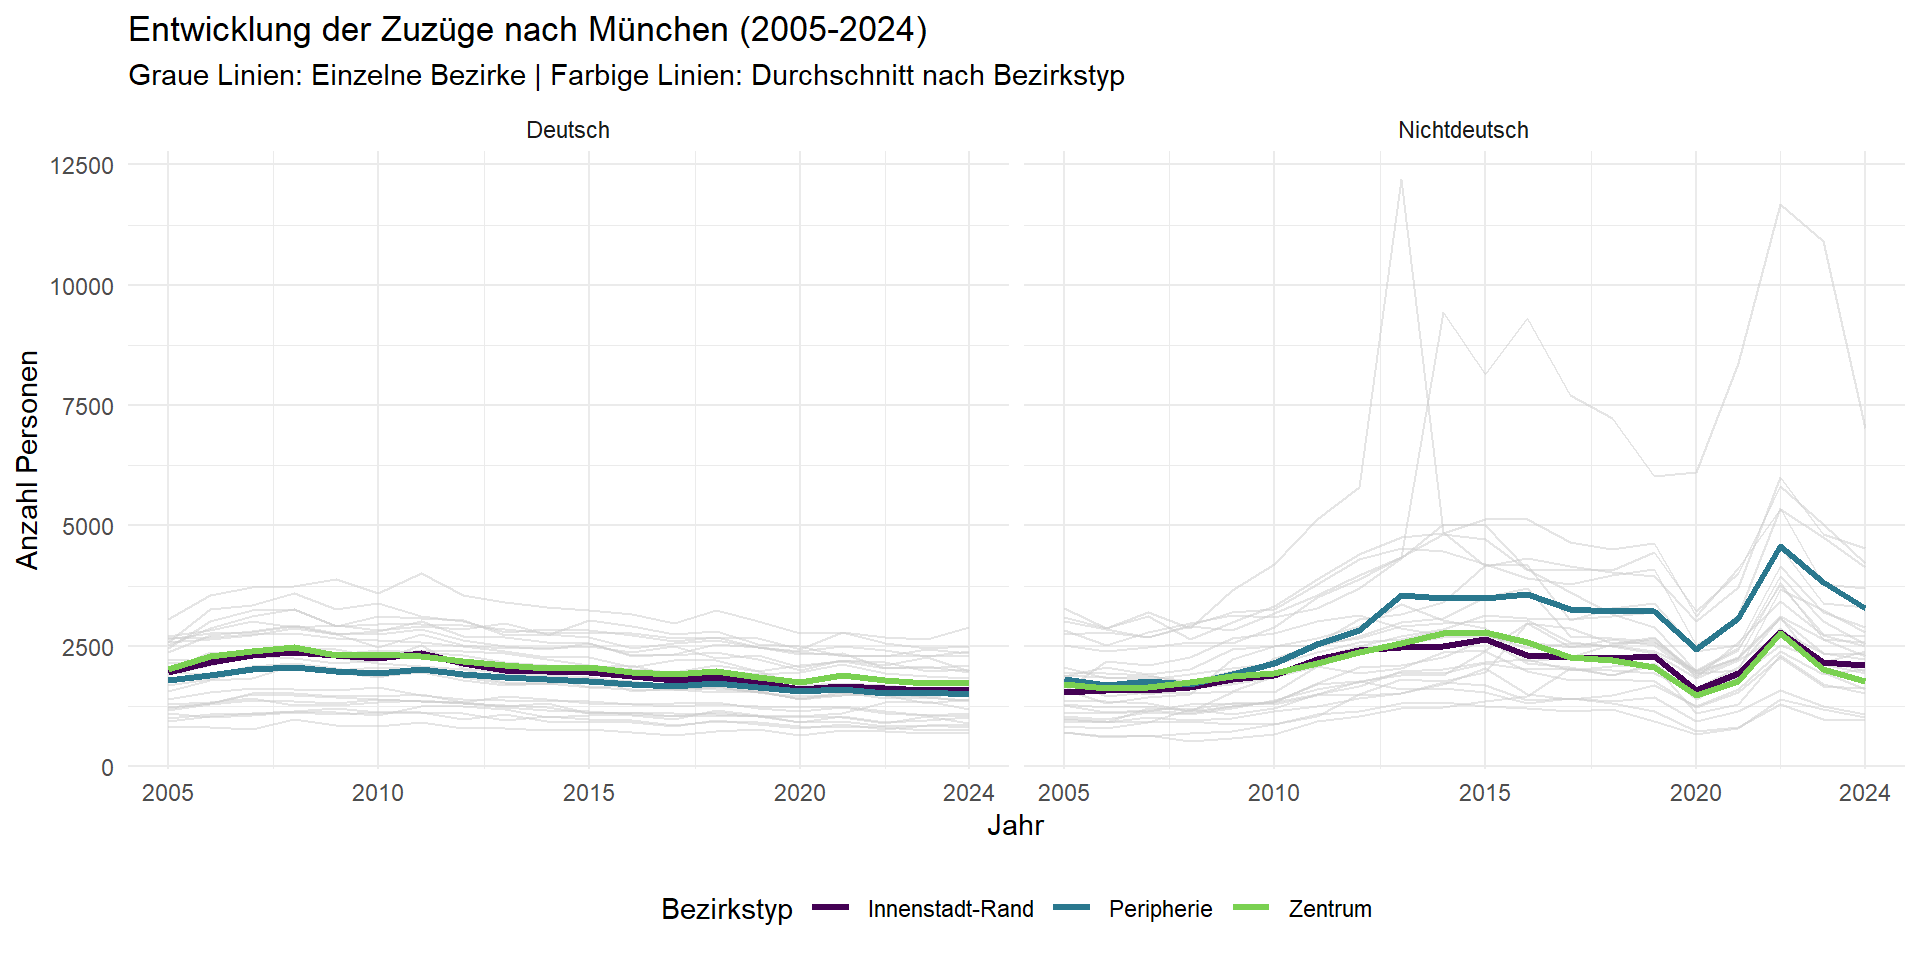
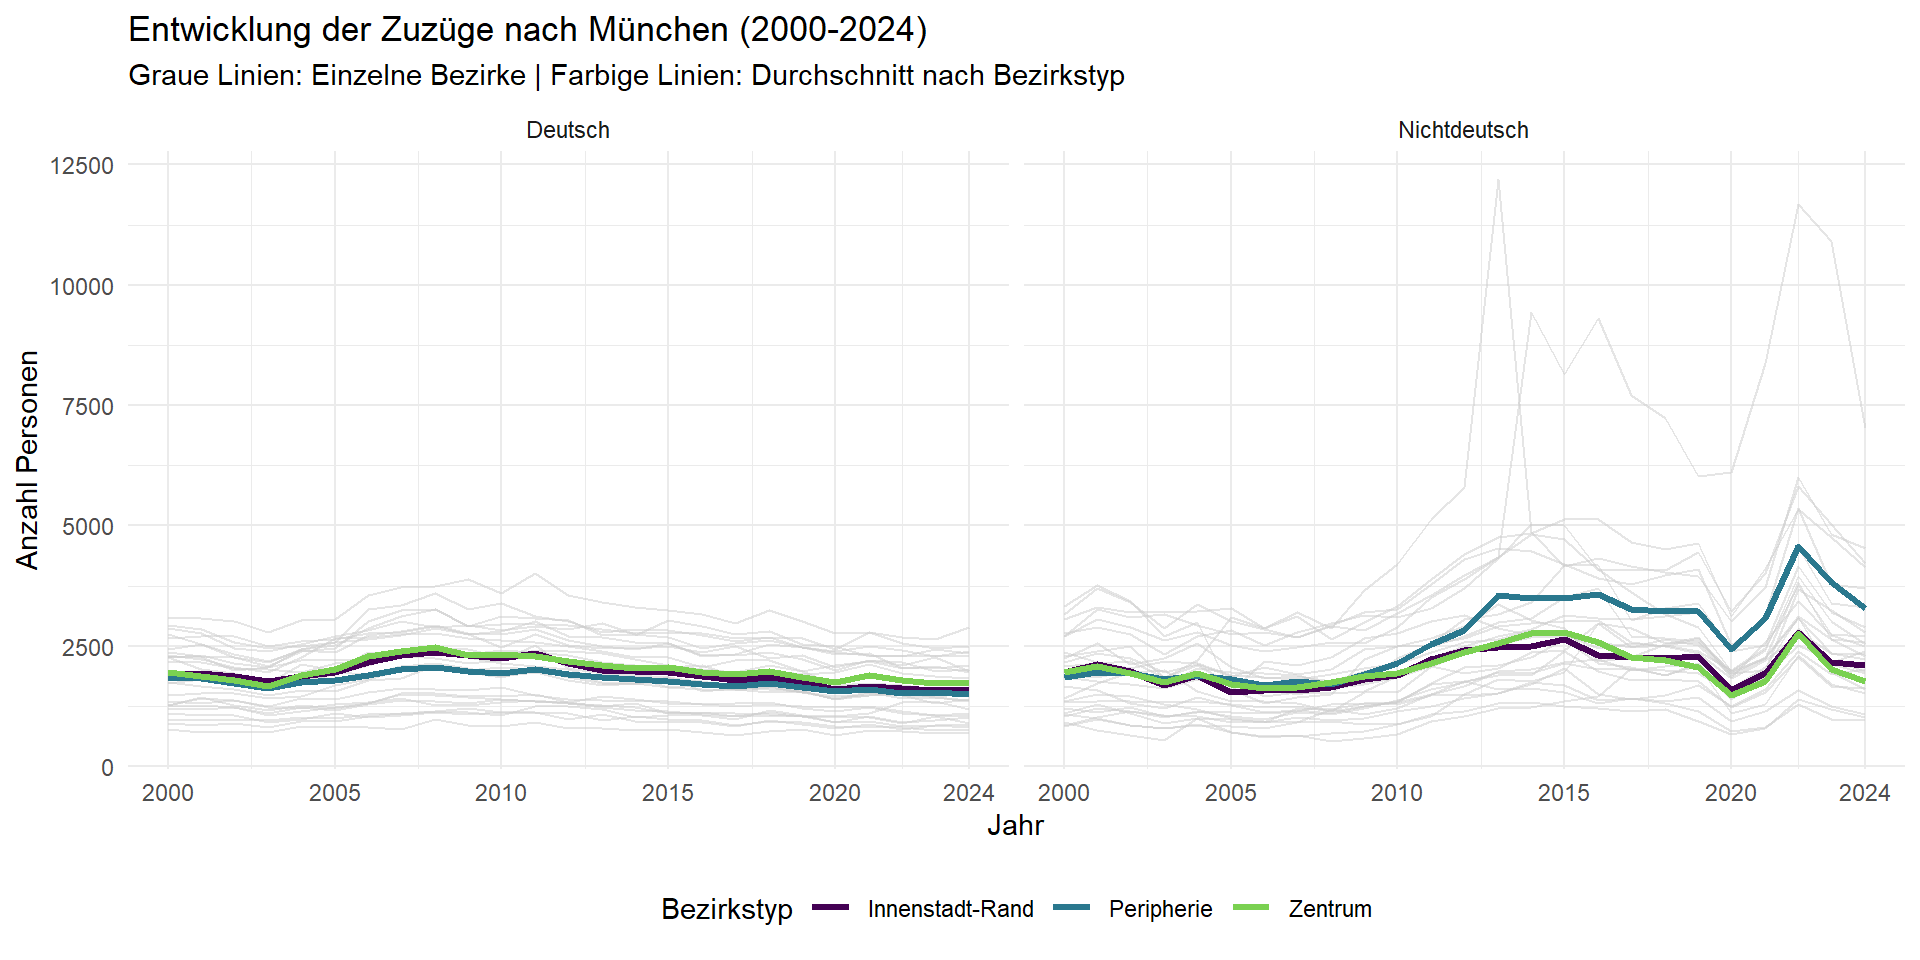
Choro-Karte von München. Kategorisierung wird anhand eines Bildes gezeigt

diff --git a/presentation.html b/presentation.html
@@ -6,8 +6,8 @@
 <script src="presentation_files/libs/quarto-html/tippy.umd.min.js"></script>
 <link href="presentation_files/libs/quarto-html/tippy.css" rel="stylesheet">
 <link href="presentation_files/libs/quarto-html/light-border.css" rel="stylesheet">
-<link href="presentation_files/libs/quarto-html/quarto-syntax-highlighting-ed96de9b727972fe78a7b5d16c58bf87.css" rel="stylesheet" id="quarto-text-highlighting-styles"><meta charset="utf-8">
-  <meta name="generator" content="quarto-1.8.27">
+<link href="presentation_files/libs/quarto-html/quarto-syntax-highlighting-7b89279ff1a6dce999919e0e67d4d9ec.css" rel="stylesheet" id="quarto-text-highlighting-styles"><meta charset="utf-8">
+  <meta name="generator" content="quarto-1.8.25">
 
   <meta name="author" content="Heinz Calderón, Christian Lex, Dennis Ley, Haoyang Yang">
   <title>Wohnungsmigration in München</title>
@@ -175,11 +175,11 @@ Heinz Calderón, Christian Lex, Dennis Ley, Haoyang Yang
 <td style="text-align: center;">1523</td>
 </tr>
 <tr class="even">
-<td style="text-align: center;">2005</td>
+<td style="text-align: center;">2000</td>
 <td style="text-align: center;">25</td>
 <td style="text-align: center;">Innenstadt-Rand</td>
-<td style="text-align: center;">2585</td>
-<td style="text-align: center;">3968</td>
+<td style="text-align: center;">2776</td>
+<td style="text-align: center;">3828</td>
 </tr>
 </tbody>
 </table>
@@ -198,18 +198,18 @@ Heinz Calderón, Christian Lex, Dennis Ley, Haoyang Yang
 </thead>
 <tbody>
 <tr class="odd">
-<td style="text-align: center;">2024</td>
+<td style="text-align: center;">2000</td>
 <td style="text-align: center;">1</td>
 <td style="text-align: center;">Zentrum</td>
-<td style="text-align: center;">20876</td>
-<td style="text-align: center;">6636</td>
+<td style="text-align: center;">18228.9</td>
+<td style="text-align: center;">5761.902</td>
 </tr>
 <tr class="even">
-<td style="text-align: center;">2005</td>
+<td style="text-align: center;">2024</td>
 <td style="text-align: center;">25</td>
 <td style="text-align: center;">Innenstadt-Rand</td>
-<td style="text-align: center;">48927</td>
-<td style="text-align: center;">9255</td>
+<td style="text-align: center;">57116.0</td>
+<td style="text-align: center;">10805.000</td>
 </tr>
 </tbody>
 </table>
